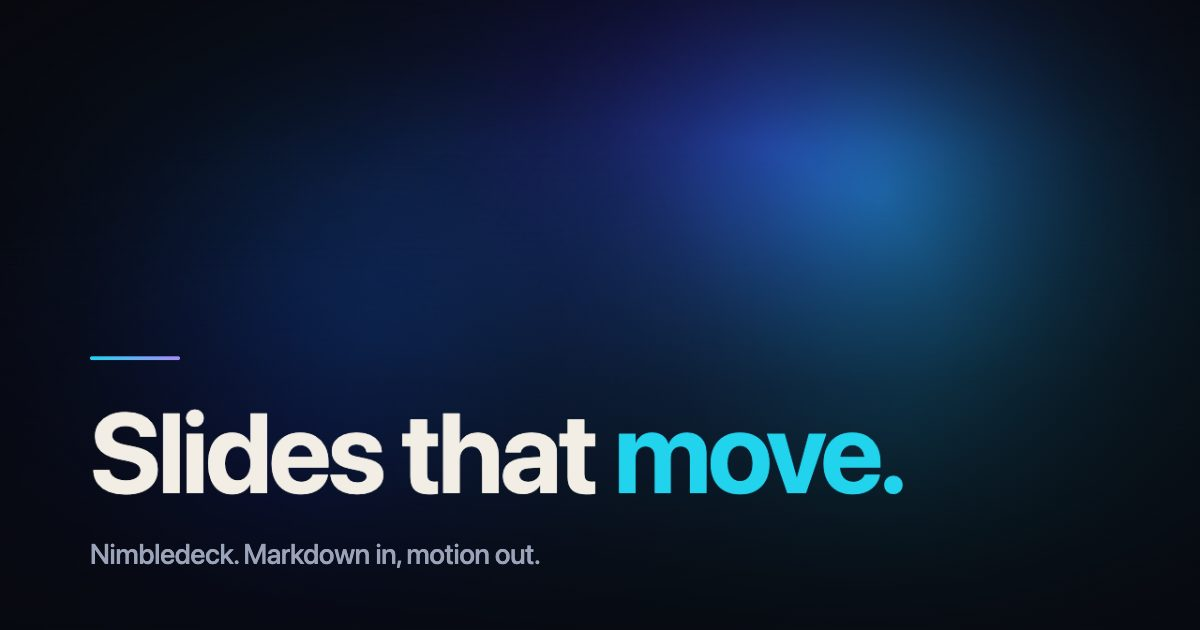
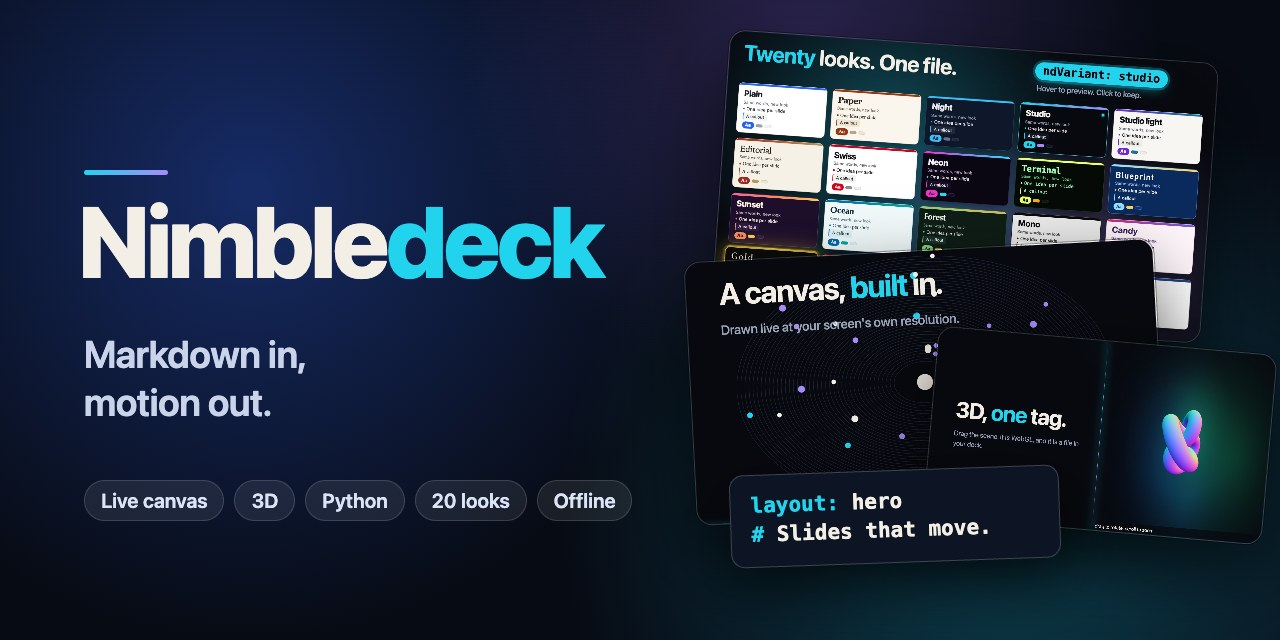
feat(site): a social card with the name, the tagline and three real slides

diff --git a/examples/showcase/README.md b/examples/showcase/README.md
@@ -66,7 +66,7 @@ into the page, and without it (dev server, PDF export, any other build) the bar 
 - The tour is a video with a length and a clock: the button shows `0:13 / 2:38`, the hairline under the bar follows the clock, a big "Watch the tour" button sits on the first slide, and `/?tour` starts it by itself. A finished tour plays again from the start.
 - A slide stays on screen for 8 seconds in the tour. `tour: 14` in a slide's frontmatter changes that; click builds share the
   slide's time (at least 2.5 seconds each).
-- `node website/make-social.mjs` regenerates `public/social.jpg`, the 1200 x 630 preview used by link cards.
+- `node website/make-social.mjs` regenerates `public/social.jpg`, the 1280 x 640 preview used by link cards and by GitHub (it composes three real slides over the name and the tagline).
 
 ## Tour script and sound
 
